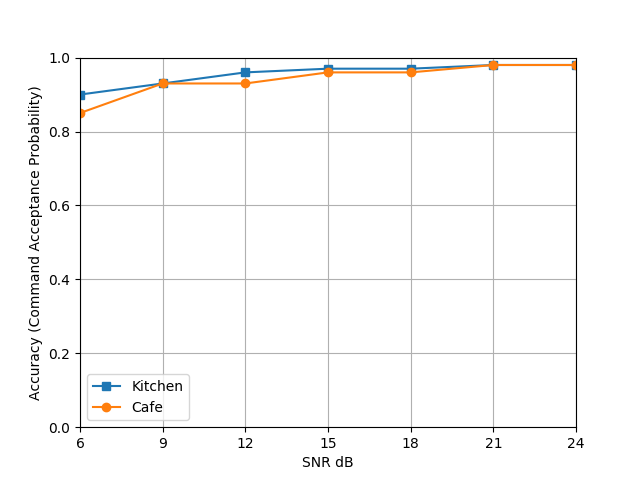
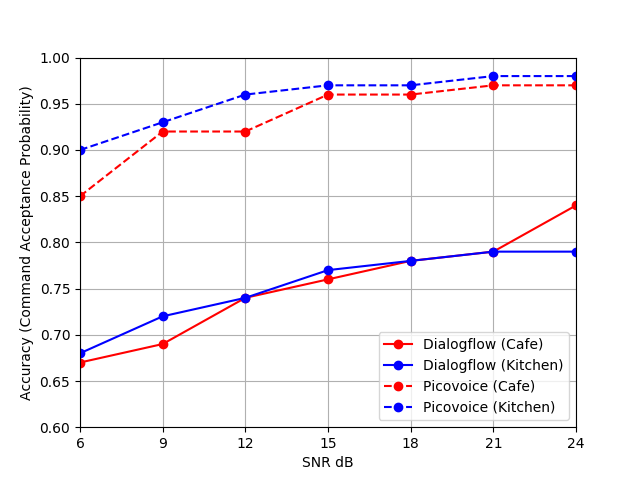
updated result with dialog flow comparison

diff --git a/benchmark/plot.py b/benchmark/plot.py
@@ -1,0 +1,22 @@
+import matplotlib.pyplot as plt
+
+df_cafe = [0.67, 0.69, 0.74, 0.76, 0.78, 0.79, 0.84]
+df_kitchen = [0.68, 0.72, 0.74, 0.77, 0.78, 0.79, 0.79]
+
+pv_cafe = [0.85, 0.92, 0.92, 0.96, 0.96, 0.97, 0.97]
+pv_kitchen = [0.9, 0.93, 0.96, 0.97, 0.97, 0.98, 0.98]
+
+snr = [6, 9, 12, 15, 18, 21, 24]
+
+plt.plot(snr, df_cafe, color='r', marker='o', label='Dialogflow (Cafe)')
+plt.plot(snr, df_kitchen, color='b', marker='o', label='Dialogflow (Kitchen)')
+plt.plot(snr, pv_cafe, color='r', linestyle='--', marker='o', label='Picovoice (Cafe)')
+plt.plot(snr, pv_kitchen, color='b', linestyle='--', marker='o', label='Picovoice (Kitchen)')
+plt.xlim(6, 24)
+plt.xlabel('SNR dB')
+plt.ylim(0.6, 1)
+plt.ylabel('Accuracy (Command Acceptance Probability)')
+plt.xticks([6, 9, 12, 15, 18, 21, 24])
+plt.legend()
+plt.grid()
+plt.show()

diff --git a/README.md b/README.md
@@ -2,9 +2,9 @@
 
 [![License](https://img.shields.io/badge/License-Apache%202.0-blue.svg)](https://github.com/Picovoice/speech-to-intent-benchmark/blob/master/LICENSE)
 
-This is a framework to benchmark the accuracy of Picovoice's speech-to-intent engine (a.k.a rhino). For more information
-regarding the engine refer to its repository directly [here](https://github.com/Picovoice/rhino). This repository contains
-all data and code to reproduce the results. In this benchmark we evaluate the accuracy of engine for the context of voice
+This is a framework to benchmark the accuracy of Picovoice's speech-to-intent engine (a.k.a rhino) against other
+natural language understanding engines. For more information regarding the engine refer to its repository directly [here](https://github.com/Picovoice/rhino).
+This repository contains all data and code to reproduce the results. In this benchmark we evaluate the accuracy of engine for the context of voice
 enabled coffee maker. You can listen to one of the sample commands [here](/data/speech/clean/81774d8e-7da7-4e9b-8cc3-33015b0ae0aa.wav).
 In order to simulate the real-life situations we have tested in two noisy conditions (1) Cafe and (2) Kitchen. You can listen
 to samples of noisy data [here](/data/misc/noisy1.wav) and [here](/data/misc/noisy2.wav).
@@ -26,8 +26,7 @@ git clone --recurse-submodules https://github.com/Picovoice/speech-to-intent-ben
 
 The repository grabs the latest version of rhino as a Git submodule under [rhino](/rhino). All data needed for this
 benchmark including speech, noise, and labels are provided under [data](/data). Additionally the Dialogflow agent used
-in this benchamrk is exported [here](/data/dialogflow). The benchmark code is located under
-[benchmark](/benchmark).
+in this benchmark is exported [here](/data/dialogflow). The benchmark code is located under [benchmark](/benchmark).
 
 The first step is to mix the clean speech data under [clean](/data/speech/clean) with noise. There are two types of noise
 used for this benchmark (1) [cafe](/data/noise/cafe.wav) and (2) [kitchen](/data/noise/kitchen.wav). In order to create
@@ -42,10 +41,10 @@ python benchmark/mixer.py ${NOISE}
 Then in order to run the noisy commands through speech-to-intent engine run the following
 
 ```bash
-python benchmark/rhino.py ${NOISE}
+python benchmark/picovoice.py ${NOISE}
 ``` 
 
-The script creates the accuracy results. In order to run the noisy spoken commands through Dialogflow API run the following
+The script creates the accuracy results for speech to intent engine. In order to run the noisy spoken commands through Dialogflow API run the following
 
 ```bash
 python benchmark/dialogflow.py ${GOOGLE_CLOUD_PLATFORM_CREDENTIAL_PATH} ${GOOGLE_CLOUD_PLATFORM_PROJECT_ID} ${NOISE}
@@ -54,7 +53,6 @@ python benchmark/dialogflow.py ${GOOGLE_CLOUD_PLATFORM_CREDENTIAL_PATH} ${GOOGLE
 # Results
 
 Below is the result of benchmark. Command Acceptance Probability (Accuracy) is defined as the probability of the engine
-to correctly understand the speech command. As it can be seen the engines performance does not drop even in low SNR regime
-depicting its resiliency to environmental noise.
+to correctly understand the speech command.
 
 ![](data/misc/result.png)
